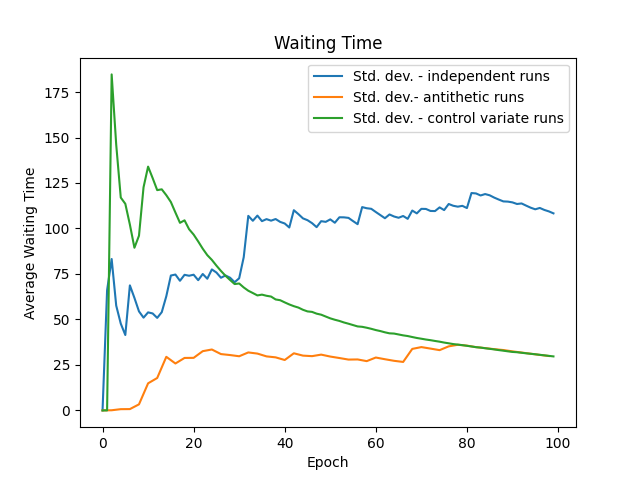
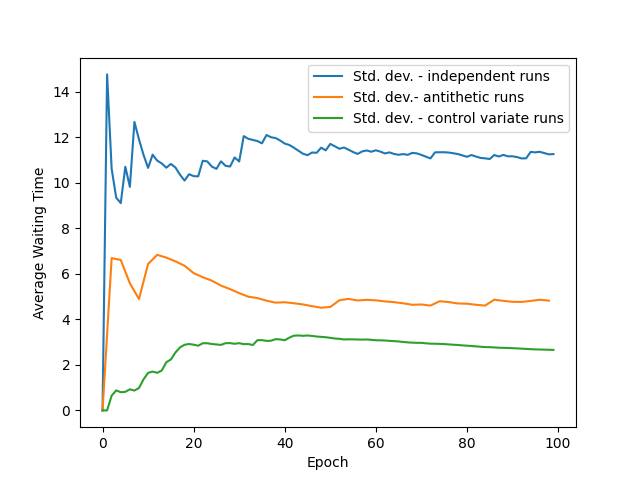
split optimization and simulation code, more plots

diff --git a/group_5_project/control_variate.py b/group_5_project/control_variate.py
@@ -1,0 +1,266 @@
+import numpy as np
+import matplotlib.pyplot as plt
+
+# project packages
+from models import SingleCustomer, LoadBalancer, Server, CustomerGroup, Status, Groups, ServerIDs, Statistics
+from distributions import exponential_rng, homogeneous_poisson_process,homogeneous_poisson_process_variance_reduction
+
+## Simulation
+from simulation import handle_requests
+
+## bootstrap
+from bootstrap import bootstrap, moving_mean_var, test_bootstrap
+
+## Scenario
+from Scenario import Scenario
+
+## utils -> get statistics
+from utils import get_queue_statistics, get_statistics
+
+## constants
+from constants import MAX_CAPACITY, FIRST_ALLOCATION, SECOND_ALLOCATION
+
+## Parameters for the simulations run: independent run, antithetic run
+from SimulationParameters import SimulationParameters
+
+## plot functions
+from plot_functions import plot_variable_reduction_results
+
+# ## Variance Reduction
+
+# ## 0. Independent Runs
+
+def independent_runs(allocation: list):
+    """
+    Description:
+        Parameters estimation, benchmark against antithetic runs and control variable
+    Args:
+        allocation (list) - The list of initial movies allocated to the ASNs
+        file_name (str) - custom plot file name
+    """
+    t = 0
+    scenario = Scenario(allocation, allocation)
+    simulation_parameters = SimulationParameters()
+
+    var = 0
+    mean  = 0
+    mean_waiting_time_all = []
+    mean_waiting_time_mean_all = []
+    mean_waiting_time_var_all = []
+    while True: 
+        t += 1
+
+        # Run simulation
+        results, _ = handle_requests(scenario)
+
+        # Collect statistics
+        statistics = get_statistics(results)
+
+
+        mean_waiting_time = statistics['overall'][Statistics.mean.value]
+        mean, var = moving_mean_var(
+            mean_waiting_time,\
+            mean,\
+            var,\
+            t
+        )
+  
+        mean_waiting_time_all.append(mean_waiting_time)
+        mean_waiting_time_mean_all .append(mean)
+        mean_waiting_time_var_all.append(var)
+
+        # Check if necessary precision reached
+        if t >= simulation_parameters.run and np.sqrt(var / t) < simulation_parameters.precision:
+            break
+    
+    return np.sqrt(mean_waiting_time_var_all)
+
+
+# ## 1. Antithetic Runs
+def antithetic_runs(allocation: list, scenario=None):
+    t = 0
+        # this is specified only if called from the optimization side
+    if not scenario:
+        scenario = Scenario(allocation, allocation)
+    simulation_parameters = SimulationParameters()
+
+    var = 0
+    mean  = 0
+    mean_waiting_time_all = []
+    mean_waiting_time_mean_all = []
+    mean_waiting_time_var_all = []
+    
+        
+    #For optimization
+    max_waiting_time = []
+    average_waiting_time = []
+    q75_waiting_time = []
+    
+    for i in np.arange(0, simulation_parameters.run/2): 
+        t += 1
+
+        # Run simulation (independent)
+        u = np.random.rand(12, 15000)
+        results, _ = handle_requests(scenario, u)
+
+
+        # Run simulation (antithetic)
+        u = 1 - u
+        results_antithetic, _ = handle_requests(scenario, u)
+        
+        # Collect statistics
+        statistics = get_statistics(results)
+        statistics_antithetic = get_statistics(results_antithetic)
+        ##################
+        # For optimization
+        ##################
+        max_waiting_time.append(statistics['overall'][Statistics.max_.value])
+        average_waiting_time = [statistics['overall'][Statistics.mean.value]]
+        q75_waiting_time.append(statistics['overall'][Statistics.q75.value])
+        mean_waiting_time = statistics['overall'][Statistics.mean.value]
+        mean_waiting_time_antithetic = statistics_antithetic['overall'][Statistics.mean.value]
+        
+        mean_waiting_time = (mean_waiting_time + mean_waiting_time_antithetic) / 2
+        mean, var = moving_mean_var(
+            mean_waiting_time,\
+            mean,\
+            var,\
+            t
+        )
+
+        mean_waiting_time_all.append(mean_waiting_time)
+        mean_waiting_time_mean_all .append(mean)
+        mean_waiting_time_var_all.append(var)
+    # optimization
+    statistics = dict()
+    statistics['overall'] = dict()
+    statistics['overall'][Statistics.mean.value] = np.mean(average_waiting_time)
+    statistics['overall'][Statistics.max_.value] = np.mean(max_waiting_time)
+    statistics['overall'][Statistics.q75.value] = np.mean(q75_waiting_time)
+    
+    return np.sqrt(mean_waiting_time_var_all), statistics
+
+
+# ## 2. Controlled Mean
+
+def controlled_mean(x, y, mu):
+    """ Calculates the controlled mean.
+    
+    Keywords:
+        x (array): Data.
+        y (array): Control data.
+        mu (float): Scalar expectation of the control data.
+    
+    Returns:
+        avg (float): Controlled mean of the data.
+        var (float): Variance of the controlled mean.
+        z (array): Optimal linear combination of the data and the control data. 
+    """
+
+    cov = np.cov(x, y)
+    cov_xy = cov[1, 0]
+    var_y = cov[1, 1]
+    
+    c = -cov_xy / var_y
+    z = x + c * (y - mu)
+    
+    avg = z.mean()
+    var = z.var()
+    
+    return avg, var, z
+
+def control_variate_runs(allocation: list, scenario=None):
+    t = 0
+    
+    # this is specified only if called from the optimization side
+    if not scenario:
+        scenario = Scenario(allocation, allocation)
+    simulation_parameters = SimulationParameters()
+    
+    var = 0
+    mean  = 0
+    mean_waiting_time_all = []
+    mean_waiting_time_mean_all = []
+    mean_waiting_time_var_all = []
+    
+    
+    total_msn_customers_all = []
+    mean_waiting_time_control_all = []
+    
+    
+    #For optimization
+    max_waiting_time = []
+    average_waiting_time = []
+    q75_waiting_time = []
+    
+    #Main loop
+    for j in np.arange(simulation_parameters.run):
+        t += 1
+
+        # Run simulation
+        results, queue = handle_requests(scenario)
+        # the maximum queue length for each group
+        queue = get_queue_statistics(queue)
+        # Collect statistics
+        statistics = get_statistics(results)
+        
+        
+        ##################
+        # For optimization
+        ##################
+        max_waiting_time.append(statistics['overall'][Statistics.max_.value])
+        average_waiting_time = [statistics['overall'][Statistics.mean.value]]
+        q75_waiting_time.append(statistics['overall'][Statistics.q75.value])
+        
+        mean_waiting_time = statistics['overall'][Statistics.mean.value]
+        mean, var = moving_mean_var(
+            mean_waiting_time,\
+            mean,\
+            var,\
+            t
+        )
+  
+        mean_waiting_time_all.append(mean_waiting_time)
+        mean_waiting_time_mean_all .append(mean)
+        mean_waiting_time_var_all.append(var)
+        
+        total_msn_customers = statistics['overall']['total_msn_customers']
+
+        # Control the average waiting time
+        if j:
+            total_msn_customers_all.append(total_msn_customers)
+            _, var_control, _ = controlled_mean(
+                np.array(mean_waiting_time_all),
+                np.array(total_msn_customers_all),
+                0.5
+            )
+            mean_waiting_time_control_all.append(var_control)
+        else:
+            total_msn_customers_all = [total_msn_customers]
+            mean_waiting_time_control_all = [var]
+
+    print(f'Correlation Matrix')
+    print(f'{np.corrcoef(total_msn_customers_all, mean_waiting_time_all)}')
+    
+    # optimization
+    statistics = dict()
+    statistics['overall'] = dict()
+    statistics['overall'][Statistics.mean.value] = np.mean(average_waiting_time)
+    statistics['overall'][Statistics.max_.value] = np.mean(max_waiting_time)
+    statistics['overall'][Statistics.q75.value] = np.mean(q75_waiting_time)
+    
+    return np.sqrt(mean_waiting_time_var_all), statistics
+
+
+
+if __name__ == '__main__':
+    control_variate, _ = control_variate_runs(SECOND_ALLOCATION)
+    independent = independent_runs(SECOND_ALLOCATION)
+    antithetic, _ = antithetic_runs(SECOND_ALLOCATION)
+    plot_variable_reduction_results(
+        independent=independent,
+        antithetic=antithetic,
+        control_variate=control_variate
+    )
+
+    

diff --git a/group_5_project/plot_functions.py b/group_5_project/plot_functions.py
@@ -21,6 +21,24 @@ def plot_variate_reduction_results_for_groups(
     fig.savefig(f'plots/extra/variance_reduction_{file_name}.png')
     plt.show()
 
+def plot_variable_reduction_results(
+    independent: np.array, 
+    antithetic: np.array, 
+    control_variate: np.array
+):
+    fig = plt.figure()
+    ax = plt.subplot(1,1,1)
+
+    ax.plot(independent, label='Std. dev. - independent runs')
+    ax.plot(np.arange(0,len(independent),step=2), antithetic, label='Std. dev.- antithetic runs')
+    ax.plot(control_variate, label='Std. dev. - control variate runs')
+    ax.set(
+        xlabel='Epoch',
+        ylabel='Average Waiting Time'
+    )
+    ax.legend()
+    fig.savefig('plots/variance_reduction/second_allocation.png', dpi=300)
+
 def plot_queues(queues, title: str, file_name: str):
     fig = plt.figure()
     ax = plt.subplot(1,1,1)
@@ -33,10 +51,8 @@ def plot_queues(queues, title: str, file_name: str):
     ax.set(title=title,
            xlabel='Time',
            ylabel='Queue length')
-
-    fig.savefig(f'plots/queue_time_series_{file_name}.png', dpi=300)
     plt.legend()
-    plt.show()
+    fig.savefig(f'plots/queue_time_series_{file_name}.png', dpi=300)
 
 def plot_empirical_waiting_time(mean_queue_all, emp_mean, emp_p95, emp_max, filename):
     fig = plt.figure()
@@ -53,4 +69,3 @@ def plot_empirical_waiting_time(mean_queue_all, emp_mean, emp_p95, emp_max, file
         )
     plt.legend()
     fig.savefig(f'plots/bootstrap/{filename}.png', dpi=300)
-    plt.show()

diff --git a/group_5_project/utils.py b/group_5_project/utils.py
@@ -30,7 +30,7 @@ def get_queue_statistics(queue: list)->dict:
         'std': overall_queue.std(),
         'max': overall_queue.max(),
         'min': overall_queue.min(),
-        'var': np.var(overall_queue)
+        'var': np.var(overall_queue),
     }
     
     return output
@@ -55,8 +55,15 @@ def get_statistics(results: list):
     waiting_times[3] = []
     
     overall = []
+    movie_choices_var = []
+    total_msn_customers = 0
     for customer in results:
         overall.append(customer.waiting_time)
+        movie_choices_var.append(customer.movie_choice)
+
+        if customer.server_address == ServerIDs.msn.value:
+            total_msn_customers += 1
+
         waiting_time = customer.waiting_time
         waiting_times[customer.server_address].append(waiting_time)    
         waiting_times[customer.id_].append(waiting_time)
@@ -80,5 +87,7 @@ def get_statistics(results: list):
     statistics['overall']['max'] = overall.max()
     statistics['overall']['q75'] = np.quantile(overall, 0.75)
     statistics['overall']['average'] = overall.mean()
-    
+    statistics['overall']['total_customers'] = len(overall) #0.19 correlation with average waiting time
+    statistics['overall']['movie_choices_var'] = np.var(movie_choices_var) # 0.07
+    statistics['overall']['total_msn_customers'] = total_msn_customers #0.55
     return statistics

diff --git a/group_5_project/extra_optimizing_per_group.py b/group_5_project/extra_optimizing_per_group.py
@@ -231,13 +231,25 @@ def control_variate_runs(allocation: list):
 
 if __name__ == '__main__':
 
+    # independent = independent_runs(FIRST_ALLOCATION)
+    # antithetic = antithetic_runs(FIRST_ALLOCATION)
+    # controlled_variates = control_variate_runs(FIRST_ALLOCATION)
+
+    # plot_variate_reduction_results_for_groups(
+    #     independent,
+    #     antithetic,
+    #     controlled_variates,
+    #     'first_allocation',
+    #     ServerIDs.msn.value
+    # )
+
     independent = independent_runs(SECOND_ALLOCATION)
-    antithetic_runs = antithetic_runs(SECOND_ALLOCATION)
+    antithetic= antithetic_runs(SECOND_ALLOCATION)
     controlled_variates = control_variate_runs(SECOND_ALLOCATION)
 
     plot_variate_reduction_results_for_groups(
         independent,
-        antithetic_runs,
+        antithetic,
         controlled_variates,
         'second_allocation',
         ServerIDs.msn.value
